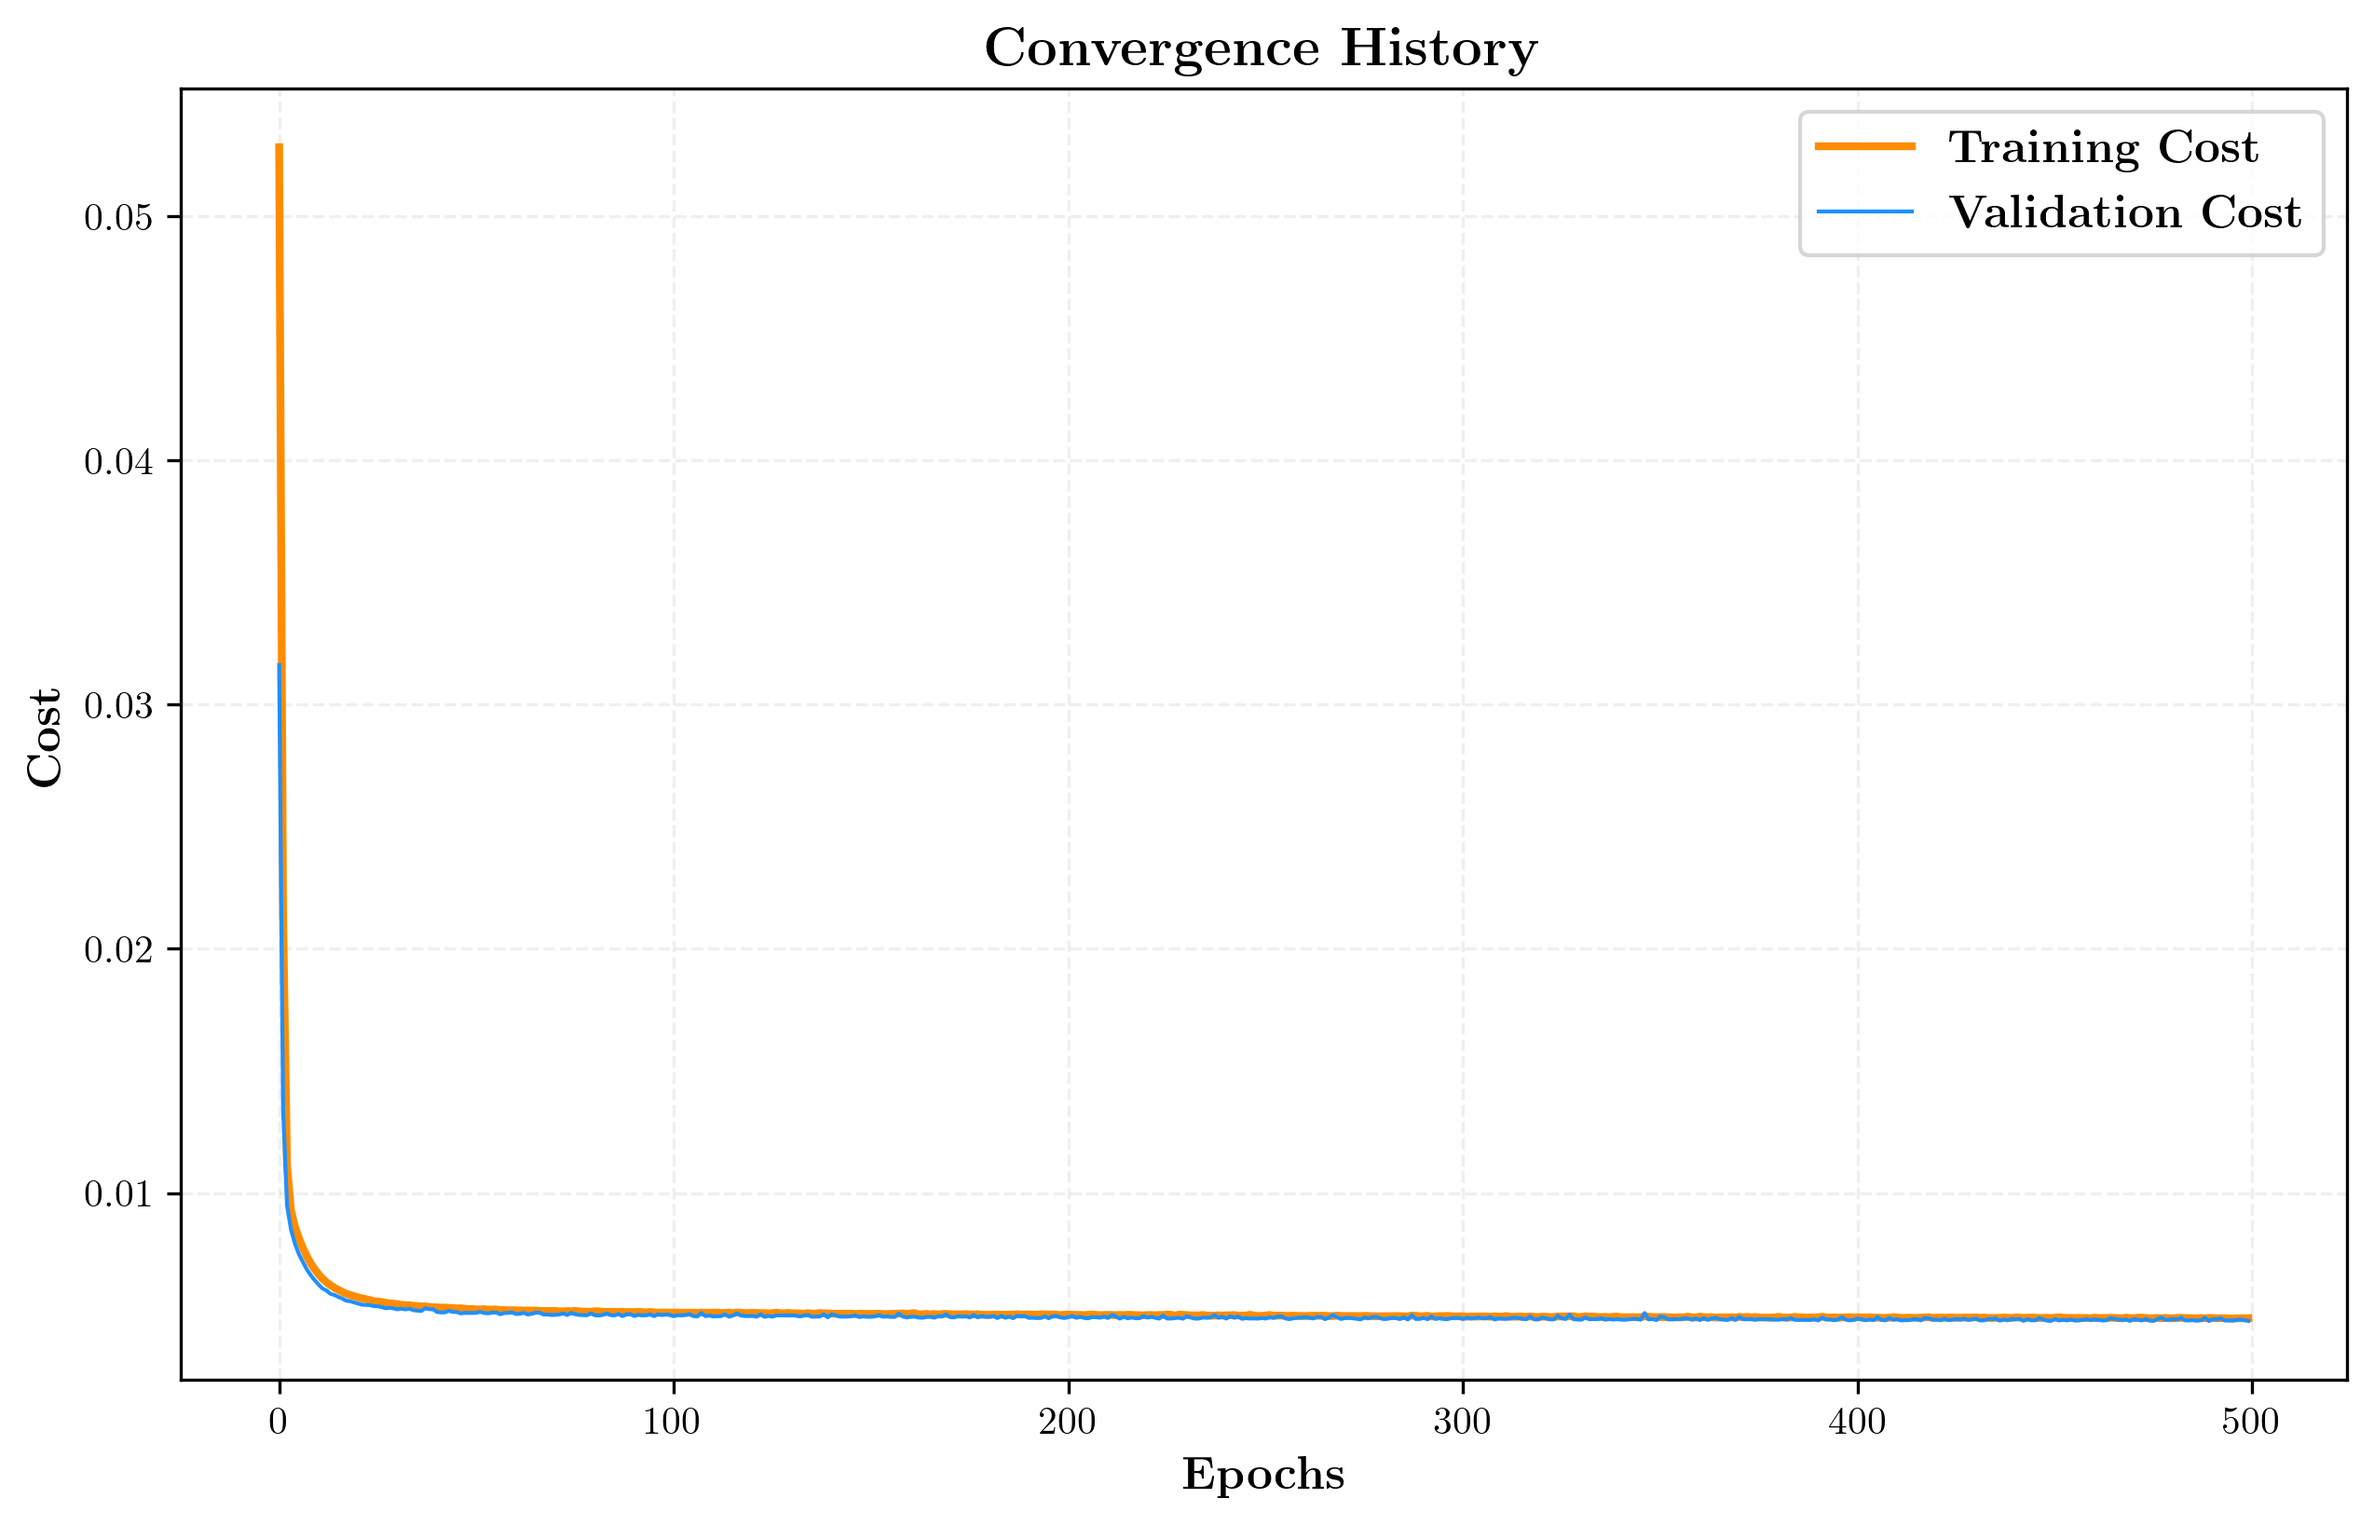
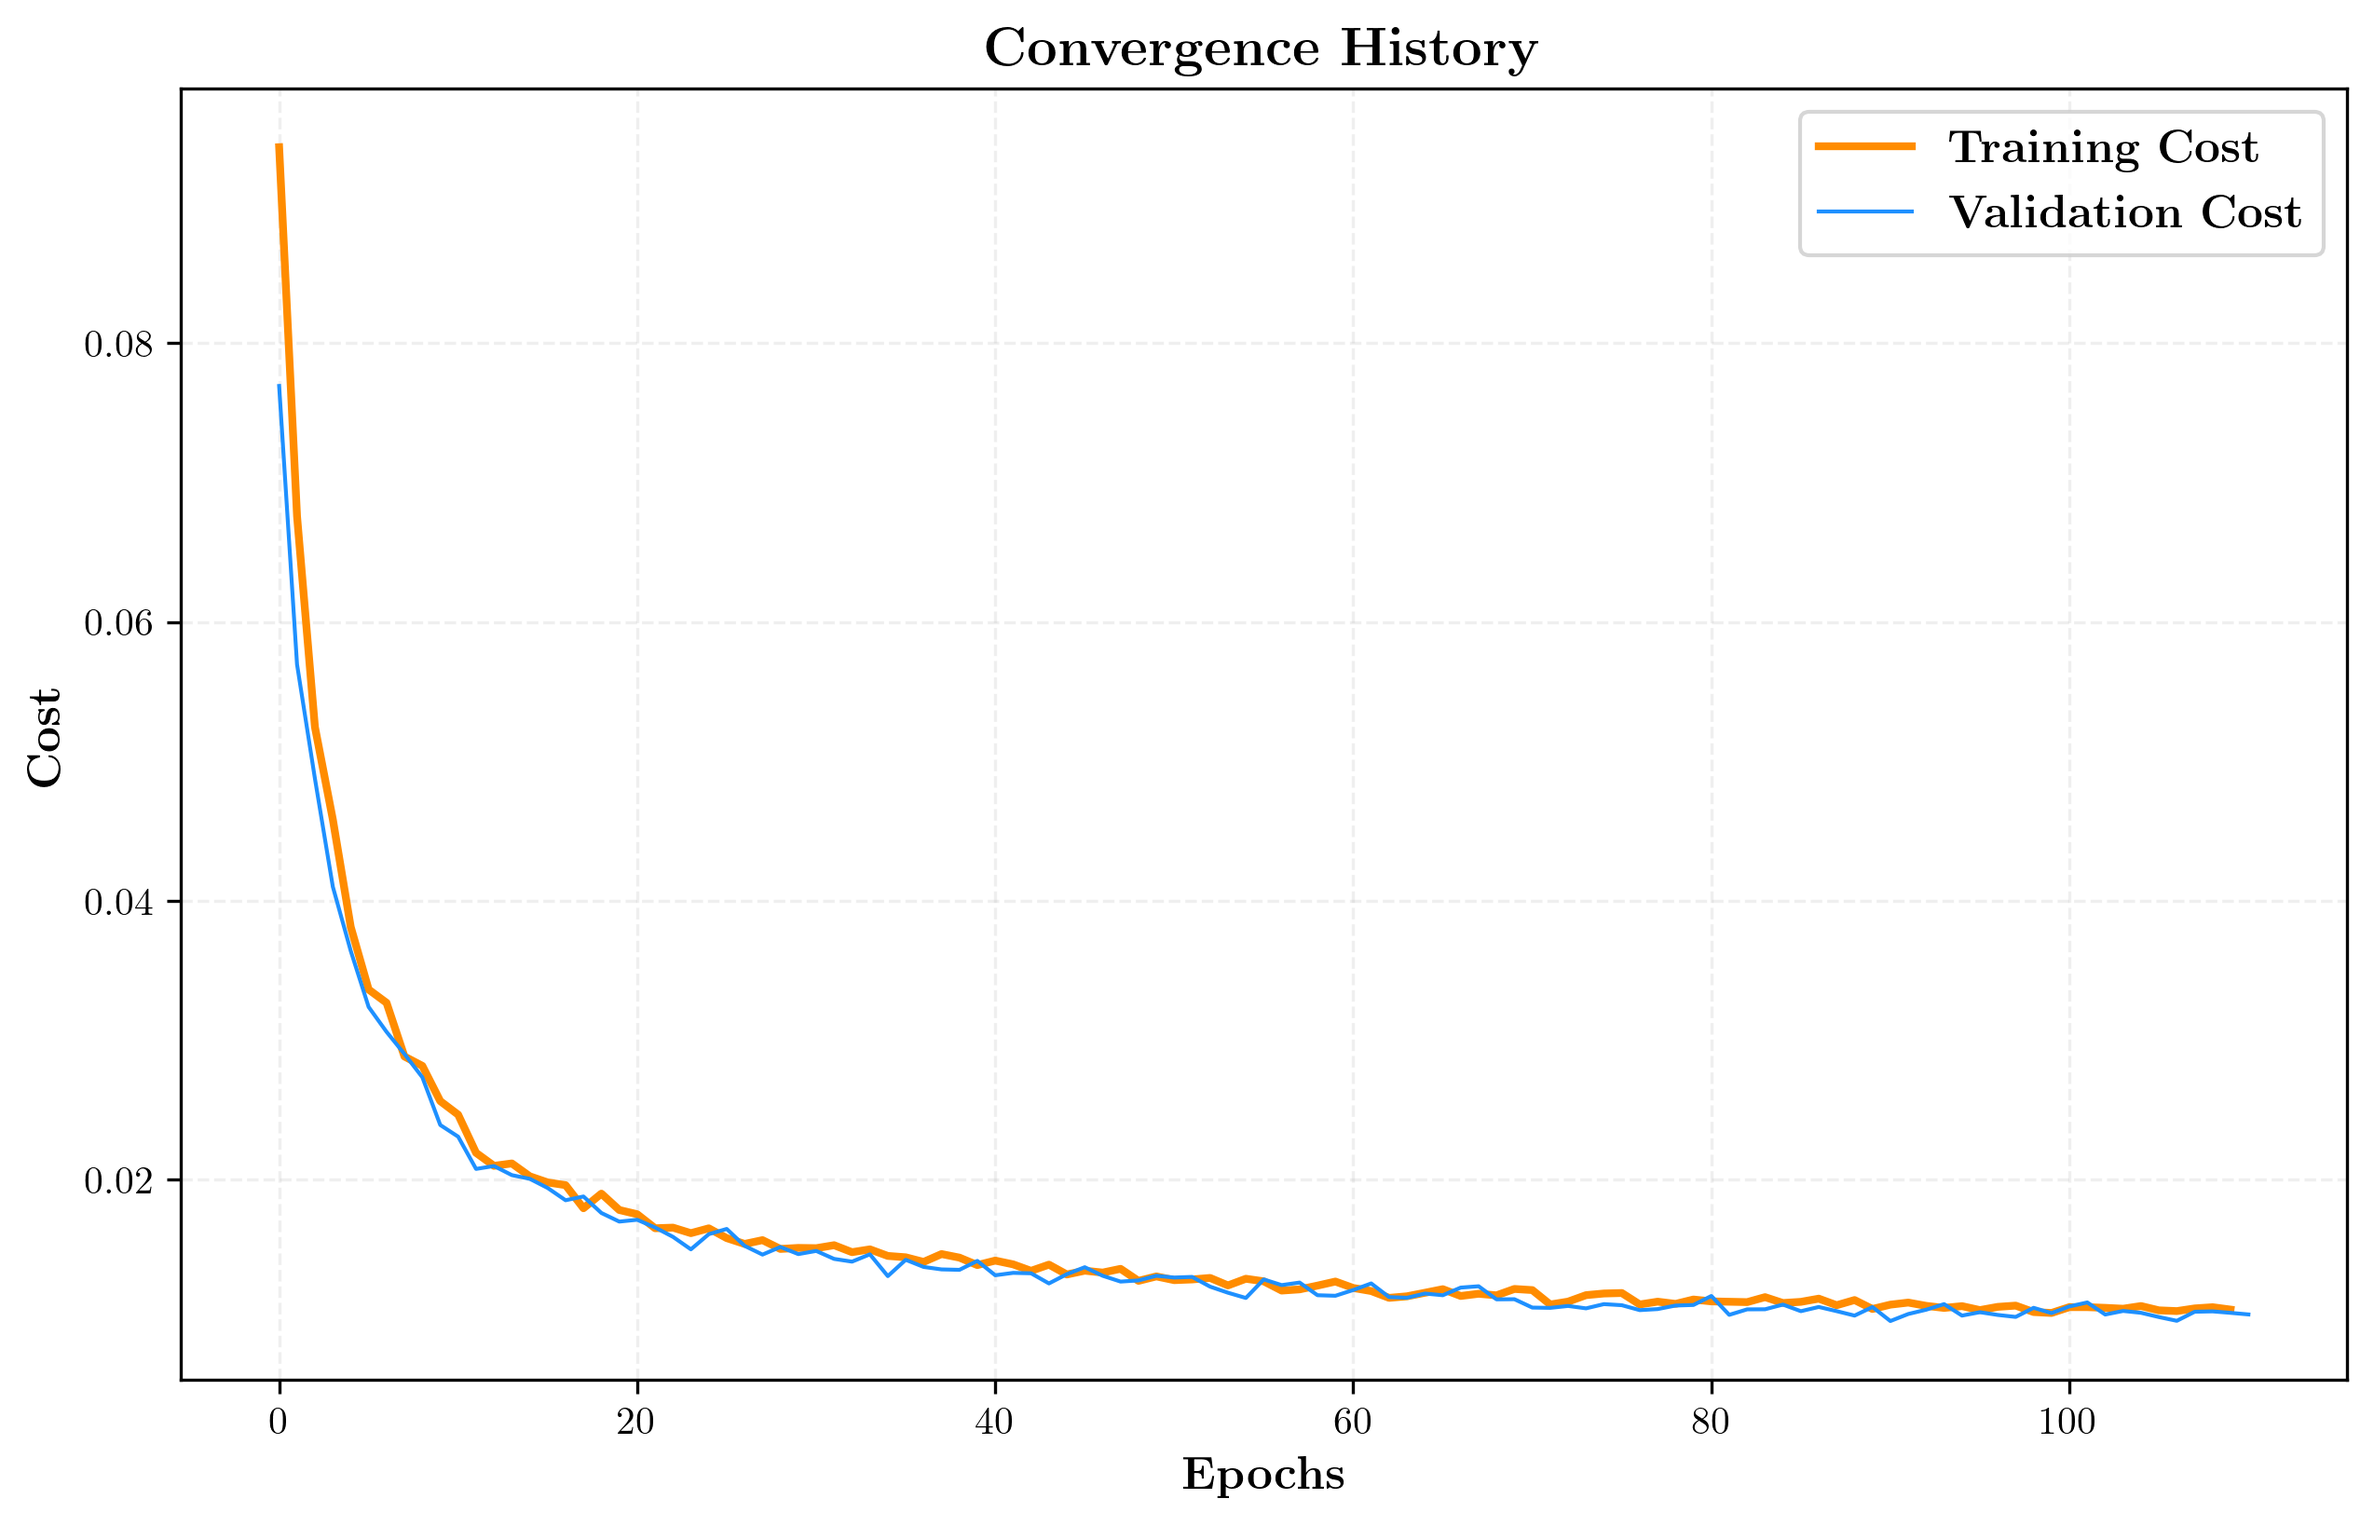
Corrected early stopping condition.

diff --git a/assignment-1/ccpd/network.py b/assignment-1/ccpd/network.py
@@ -316,17 +316,21 @@ class Network:
                     valid_error = self.predicted_error(valid_x, valid_y)
                     self.validcosts.append(valid_error)
                     if early_stopping_patience > 0:
-                        best_valid_error = float('inf')
-                        patience = 0
-                        if valid_error < best_valid_error:
+                        if i == 0:
                             best_valid_error = valid_error
                             patience = 0
+                        else:
+                            if valid_error < best_valid_error:
+                                best_valid_error = valid_error
+                                patience = 0
+                            else:
+                                patience += 1
+                        if patience >= early_stopping_patience:
+                            print("Early stopping: validation error didn't improve for {} epochs".format(early_stopping_patience))
+                            break
+                        print("Cost after epoch %i: %f, Valid err: %f" % (i, cost_avg, valid_error))
                     else:
-                        patience += 1
-                    if patience >= early_stopping_patience:
-                        print("Early stopping: validation error didn't improve for {} epochs".format(early_stopping_patience))
-                        break
-                    print("Cost after epoch %i: %f, Valid err: %f" % (i, cost_avg, valid_error))
+                        print("Cost after epoch %i: %f, Valid err: %f" % (i, cost_avg, valid_error))
                 else:
                     print("Cost after epoch %i: %f" % (i, cost_avg))
                 self.costs.append(cost_avg)

diff --git a/assignment-1/ccpd/ccpp_config.py b/assignment-1/ccpd/ccpp_config.py
@@ -22,7 +22,7 @@ epsilon = 1e-8
 layers_dims = [4, 10, 10, 1]
 
 # Dropout
-dropout_keep_prob = 1.0  # Set to 1.0 to disable dropout
+dropout_keep_prob = 0.8  # Set to 1.0 to disable dropout
 
 # Early stopping patience (optional, None for no early stopping)
 early_stopping_patience = 20  # Stop if no improvement in validation error after 20 epochs (set to None to disable)
